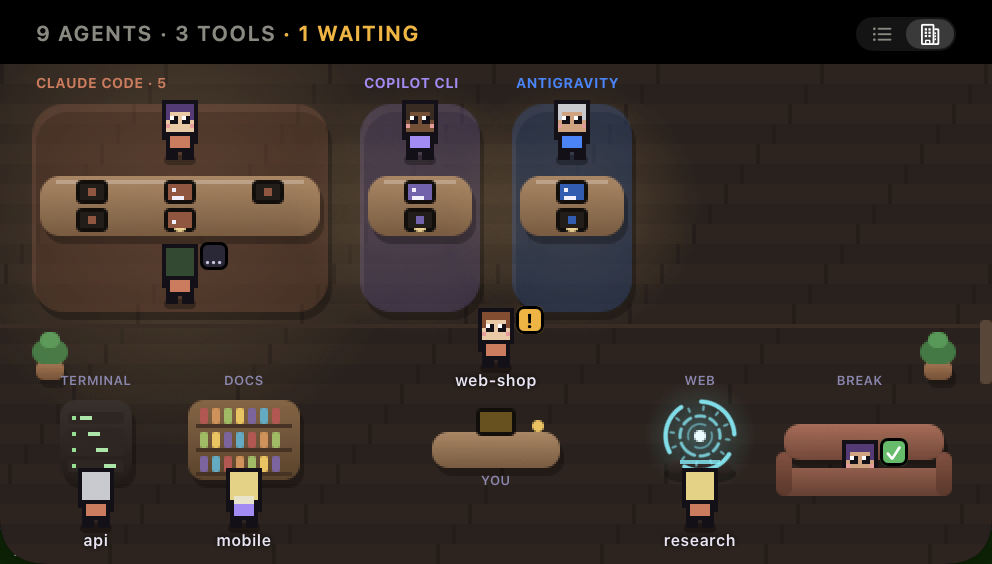
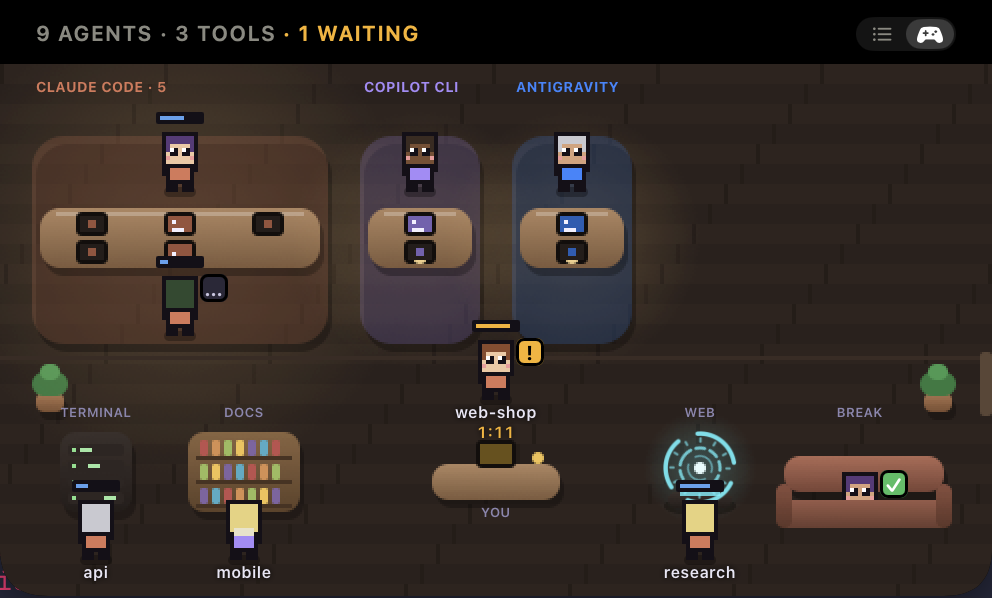
docs(site): the office with context bars, waiting clocks and the game-controller switch

diff --git a/docs/index.html b/docs/index.html
@@ -91,7 +91,7 @@
   .tab[aria-selected="true"] { background: rgba(255,255,255,.14); color: #fff; }
   /* The app's own SF Symbols, rendered from macOS, tinted with the text colour. */
   .sym { display: inline-block; width: 13px; height: 13px; background: currentColor; -webkit-mask: var(--m) center / contain no-repeat; mask: var(--m) center / contain no-repeat; }
[5 lines of base64/hex data omitted]
@@ -468,7 +468,7 @@
           </div>
 
           <div class="view" data-name="agents" hidden>
-            <div class="group"><svg><use href="#claude"/></svg>CLAUDE CODE · 2<span style="margin-left:auto"><span class="sw2" aria-hidden="true"><span class="on"><span class="sym s-list" aria-hidden="true"></span></span><span ><span class="sym s-building" aria-hidden="true"></span></span></span></span></div>
+            <div class="group"><svg><use href="#claude"/></svg>CLAUDE CODE · 2<span style="margin-left:auto"><span class="sw2" aria-hidden="true"><span class="on"><span class="sym s-list" aria-hidden="true"></span></span><span ><span class="sym s-game" aria-hidden="true"></span></span></span></span></div>
             <div class="sess"><div class="tile"><svg><use href="#claude"/></svg><span class="wait">!</span></div><div class="t"><div><b>web-shop</b><span>Claude Code · Ghostty</span></div><div>Waiting for you: git push origin fix/checkout</div><div class="ctx warn"><span class="bar"><i class="warn" style="width:85%"></i></span>85% · compacts soon</div></div><span class="time">2:14</span></div>
             <div class="sess"><div class="tile"><svg><use href="#claude"/></svg><span class="live"></span></div><div class="t"><div><b>api</b><span>Claude Code · Terminal</span></div><div>Bash: npm test</div><div class="ctx"><span class="bar"><i style="width:30%"></i></span>30% context</div></div><span class="time">0:05</span></div>
             <div class="group" style="margin-top:10px"><svg><use href="#copilot"/></svg>COPILOT CLI · 1</div>
@@ -476,7 +476,7 @@
           </div>
 
           <div class="view" data-name="office" hidden>
-            <img class="room" src="assets/office-room.png" width="496" height="282" alt="The agent office: a table for each tool with little people at work, one waiting at your desk, one at the web hologram, one on the sofa.">
+            <img class="room" src="assets/office-room.png" width="496" height="299" alt="The agent office: a table for each tool with little people at work, one waiting at your desk, one at the web hologram, one on the sofa.">
           </div>
 
           <div class="view" data-name="tokens" hidden>
@@ -613,10 +613,10 @@
   <section>
     <h2>Or watch them work <span class="tag">New in 0.6</span></h2>
     <p>Prefer to see your agents at work? Switch the Agents tab to the <b>office</b>. Each tool gets a table and each session a little person sitting at it. They get up and walk to the terminal to run a command, the bookshelf to read, the hologram to search the web, and the sofa when a turn is done. When one needs you, it comes to your desk and waves, with an amber "!" or a blue "?".</p>
-    <p>It's a cozy studio at night: lamps on the tables, a wooden floor, plants by the door. Hover anyone to see what they're doing and how full their context is; click to jump to their terminal. Add a tool and it gets its own table. It's all Core Animation, so it costs nothing while the notch is closed.</p>
+    <p>It's a cozy studio at night: lamps on the tables, a wooden floor, plants by the door. A little bar over each head shows how full its context is, amber when it's about to compact, and whoever waits at your desk shows how long. Hover anyone for what they're doing, how long, and what you last asked; click to jump to their terminal. Add a tool and it gets its own table. It's all Core Animation, so it costs nothing while the notch is closed.</p>
     <figure>
       <div class="shot"><svg class="scene" aria-hidden="true" preserveAspectRatio="xMidYMid slice" viewBox="0 0 600 300"><use href="#sc-night"/></svg>
-        <img class="real" src="assets/office.png" width="496" height="314" alt="The agent office: Claude Code, Copilot CLI and Antigravity tables with little people at work, one waiting at your desk, one at the web hologram, one resting on the sofa.">
+        <img class="real" src="assets/office-room.png" width="496" height="299" alt="The agent office: Claude Code, Copilot CLI and Antigravity tables with little people at work, one waiting at your desk, one at the web hologram, one resting on the sofa.">
       </div>
     </figure>
     <div class="avail"><svg><use href="#claude"/></svg><svg><use href="#copilot"/></svg><svg><use href="#agy"/></svg>Every agent Visor sees, in one room.</div>
@@ -716,7 +716,7 @@
 
 <script>
   // Panel sizes from the app (points): 520 wide, the approval card 580, Now Playing compact.
-  const sizes = { closed: [300, 32], usage: [520, 324], agents: [520, 292], office: [520, 343], tokens: [520, 454], approval: [580, 193], clipboard: [520, 232], music: [340, 136] };
+  const sizes = { closed: [300, 32], usage: [520, 324], agents: [520, 292], office: [520, 362], tokens: [520, 454], approval: [580, 193], clipboard: [520, 232], music: [340, 136] };
   // The office lives in the Agents tab and Tokens in Usage.
   const tabOf = { office: 'agents', tokens: 'usage' };
   const notch = document.getElementById('notch');
